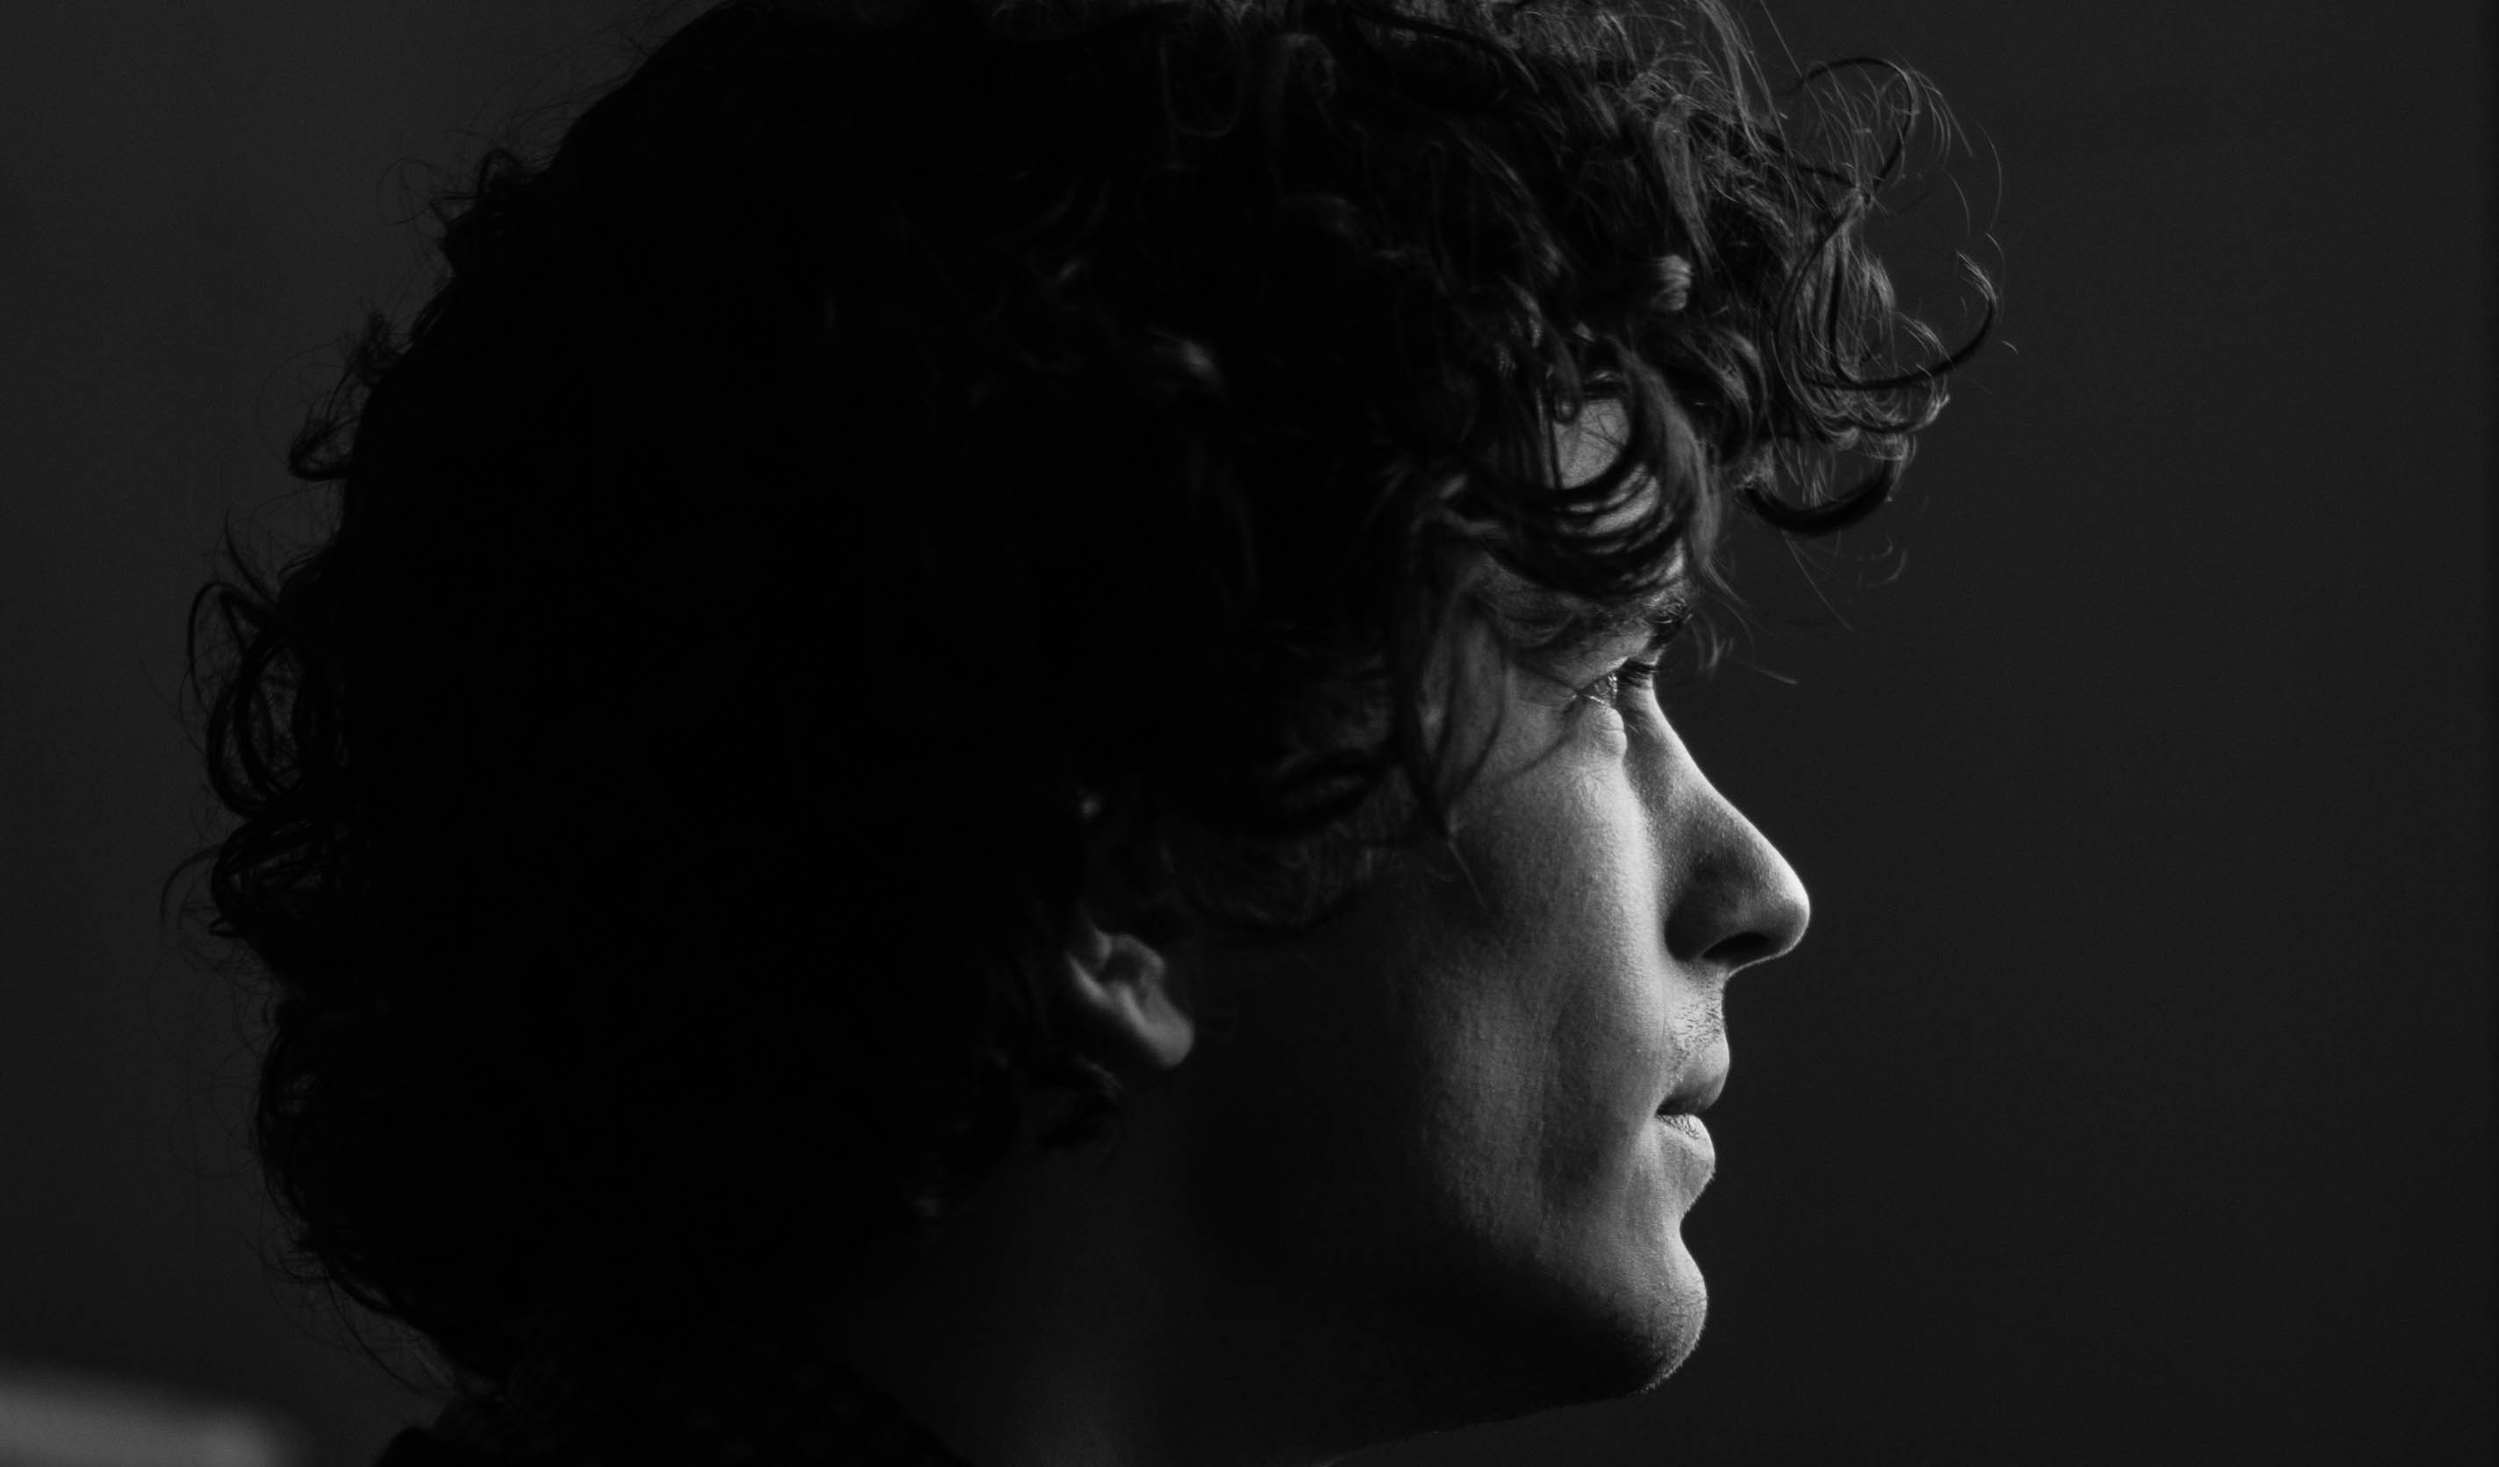
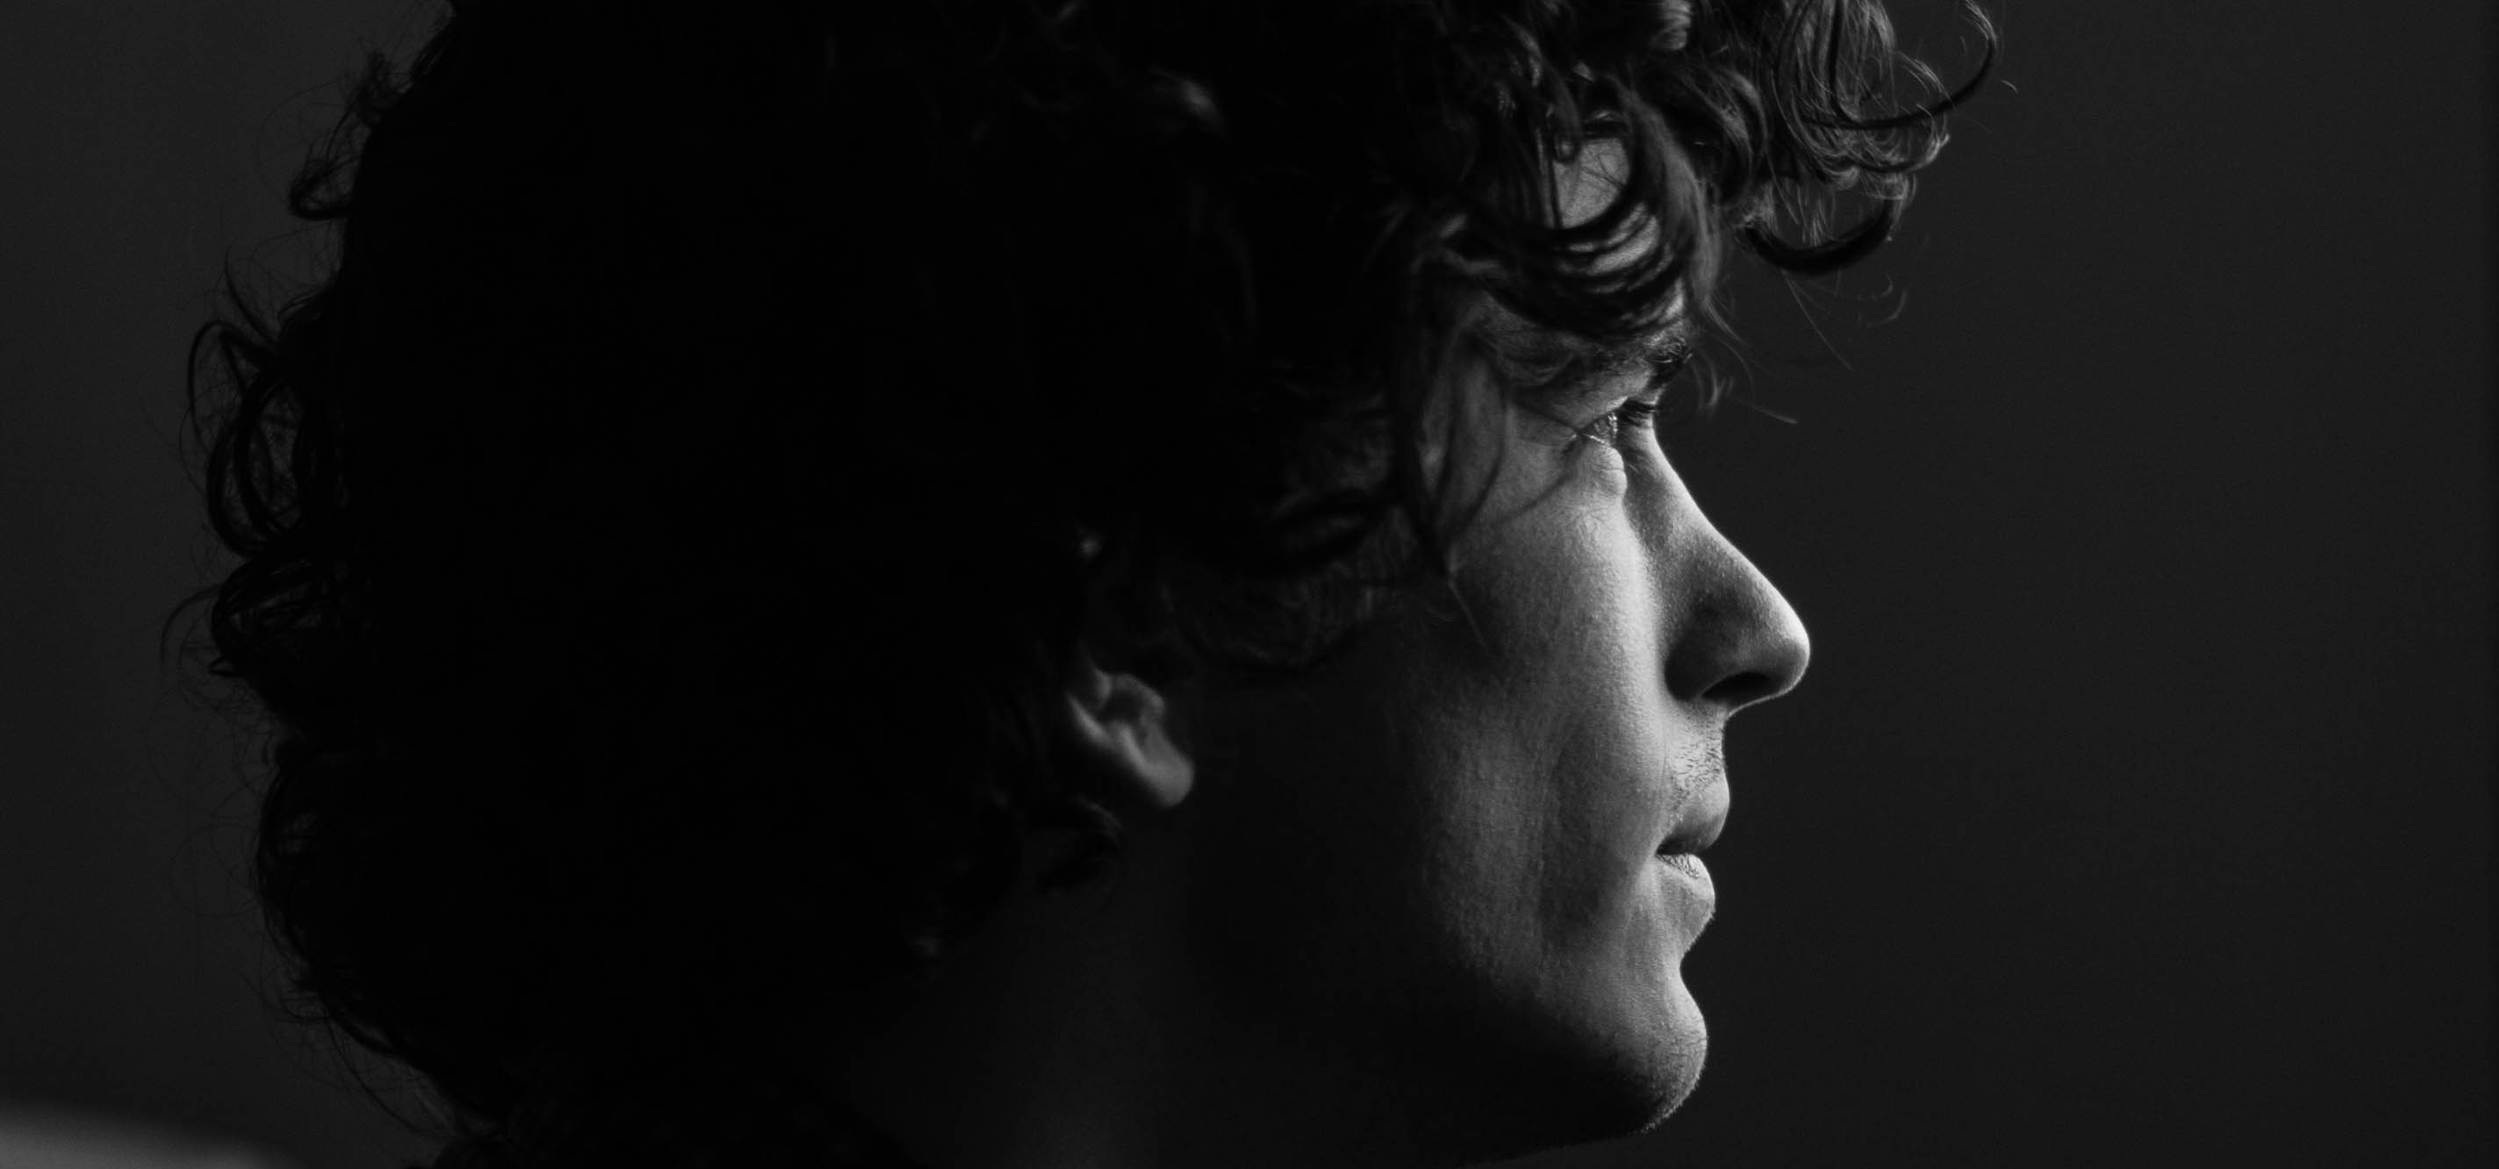
fixed the spacing in the footer, the color of the nav bar, changed the titles in the nav bar, cropped the pictures tighter, fixed the colors of the fonts in the nav bar

diff --git a/index.html b/index.html
@@ -17,7 +17,7 @@
 
 	</head>
 	<body>
-        <nav class="navbar navbar-default navbar-fixed-top">
+        <nav class="navbar navbar-default navbar-fixed-top" style="background-color: rgba(255,255,255,.25)">
           <div class="container">
             <div class="navbar-header">
               <button type="button" class="navbar-toggle collapsed" data-toggle="collapse" data-target="#navbar" aria-expanded="false" aria-controls="navbar">
@@ -26,15 +26,15 @@
                 <span class="icon-bar"></span>
                 <span class="icon-bar"></span>
               </button>
-              <a class="navbar-brand" href="#">Project name</a>
+              <a class="navbar-brand" style="color: #ffffff" href="#">SLAA:&nbsp&nbspSLC UTIN </a>
             </div>
             <div id="navbar" class="navbar-collapse collapse">
               <ul class="nav navbar-nav">
-                <li class="active"><a href="#">Home</a></li>
-                <li><a href="#about">About</a></li>
-                <li><a href="#contact">Contact</a></li>
-                <li class="dropdown">
-                  <a href="#" class="dropdown-toggle" data-toggle="dropdown" role="button" aria-haspopup="true" aria-expanded="false">Dropdown <span class="caret"></span></a>
+                <li><a href="#" style="color: #ffffff">Home</a></li>
+                <li><a href="#about" style="color: #ffffff">About</a></li>
+                <li><a href="#contact" style="color: #ffffff">Contact</a></li>
+                <!--<li class="dropdown">
+                  <a href="#" style="color: #ffffff" class="dropdown-toggle" data-toggle="dropdown" role="button" aria-haspopup="true" aria-expanded="false">Dropdown <span class="caret"></span></a>
                   <ul class="dropdown-menu">
                     <li><a href="#">Action</a></li>
                     <li><a href="#">Another action</a></li>
@@ -44,14 +44,14 @@
                     <li><a href="#">Separated link</a></li>
                     <li><a href="#">One more separated link</a></li>
                   </ul>
-                </li>
+                </li>-->
               </ul>
               <ul class="nav navbar-nav navbar-right">
-                <li><a href="../navbar/">Default</a></li>
-                <li><a href="../navbar-static-top/">Static top</a></li>
-                <li class="active"><a href="./">Fixed top <span class="sr-only">(current)</span></a></li>
+                <li><a href="../navbar/" style="color: #ffffff">Default</a></li>
+                <li><a href="../navbar-static-top/" style="color: #ffffff">Static top</a></li>
+                <!--<li class="active"><a href="./" style="color: #ffffff">Fixed top <span class="sr-only">(current)</span></a></li>-->
               </ul>
-            </div>/.nav-collapse
+            </div>
           </div>
         </nav>
         <section data-stellar-background-ratio="0.5" style="background-attachment: fixed">
@@ -65,14 +65,14 @@
 				<div class="cover-container">
 					<div class="masthead clearfix">
 						<div class="inner">
-                            <h3 class="masthead-brand">SLAA:&nbsp&nbsp&nbspUtah Intergroup</h3>
+                            <!--<h3 class="masthead-brand">SLAA:&nbsp&nbsp&nbspUtah Intergroup</h3>
                                 <nav>
                                     <ul class="nav masthead-nav">
                                         <li style="font-size: 20px; font-weight: bold; color: #fff; color: rgba(255,255,255,.75);"></a href="#">Home</a></li>
                                         <li><a href="#">Find a Meeting</a></li>
                                         <li><a href="#">Contact</a></li>
                                     </ul>
-                                </nav>
+                                </nav>-->
 						</div>
 					</div>
 
@@ -332,8 +332,16 @@
                         grown to cherish meetings as a means of sharing with and learning from others. Meetings model healthy relationships,
                         help relieve our isolation, and free us from the shame of our addiction by reaffirming we are not alone in our disease or recovery.
                     </div>
+
+
                 </div>
+
             </div>
+                <br>
+                <br>
+                <br>
+                <br>
+                <br>
 
         </div>
 	
